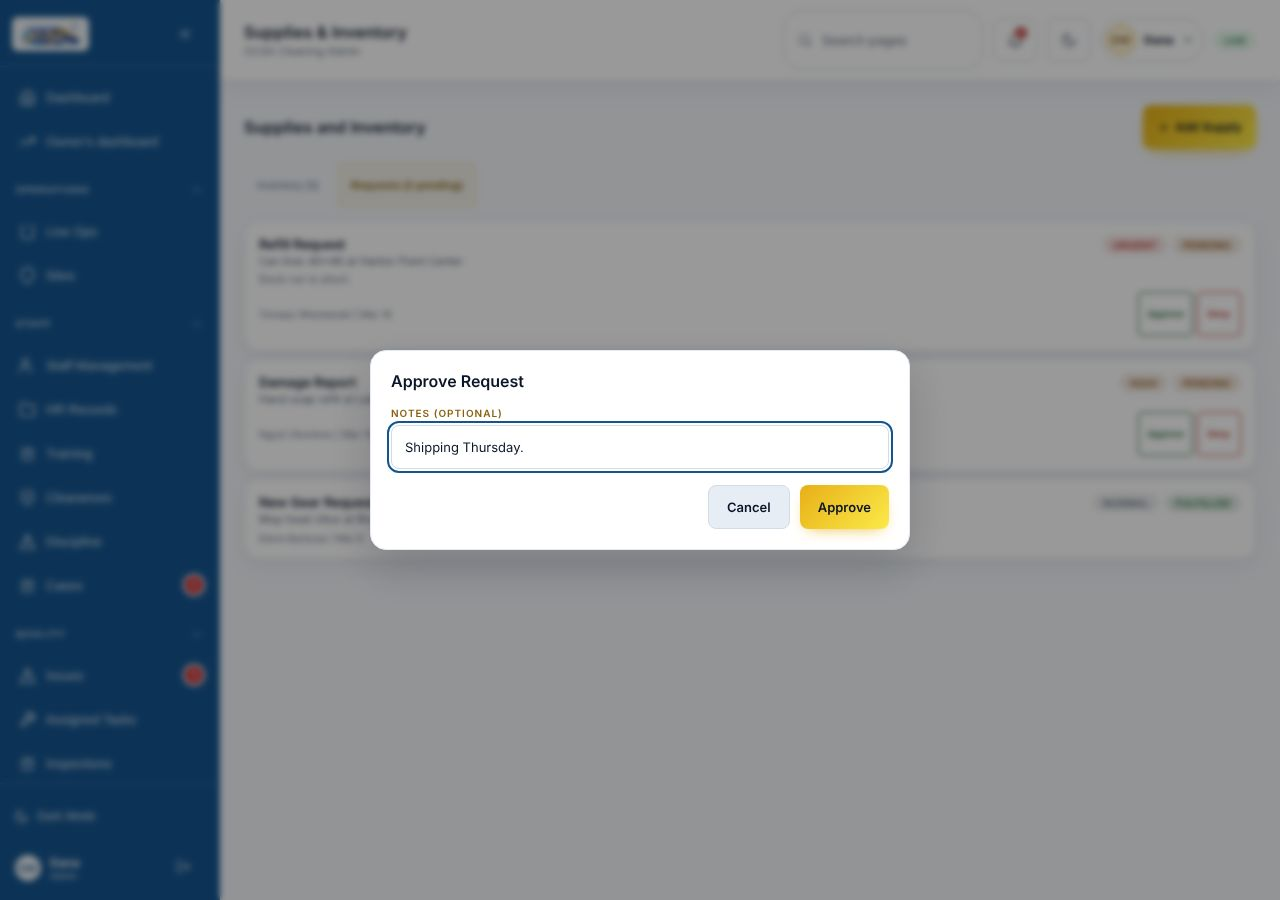
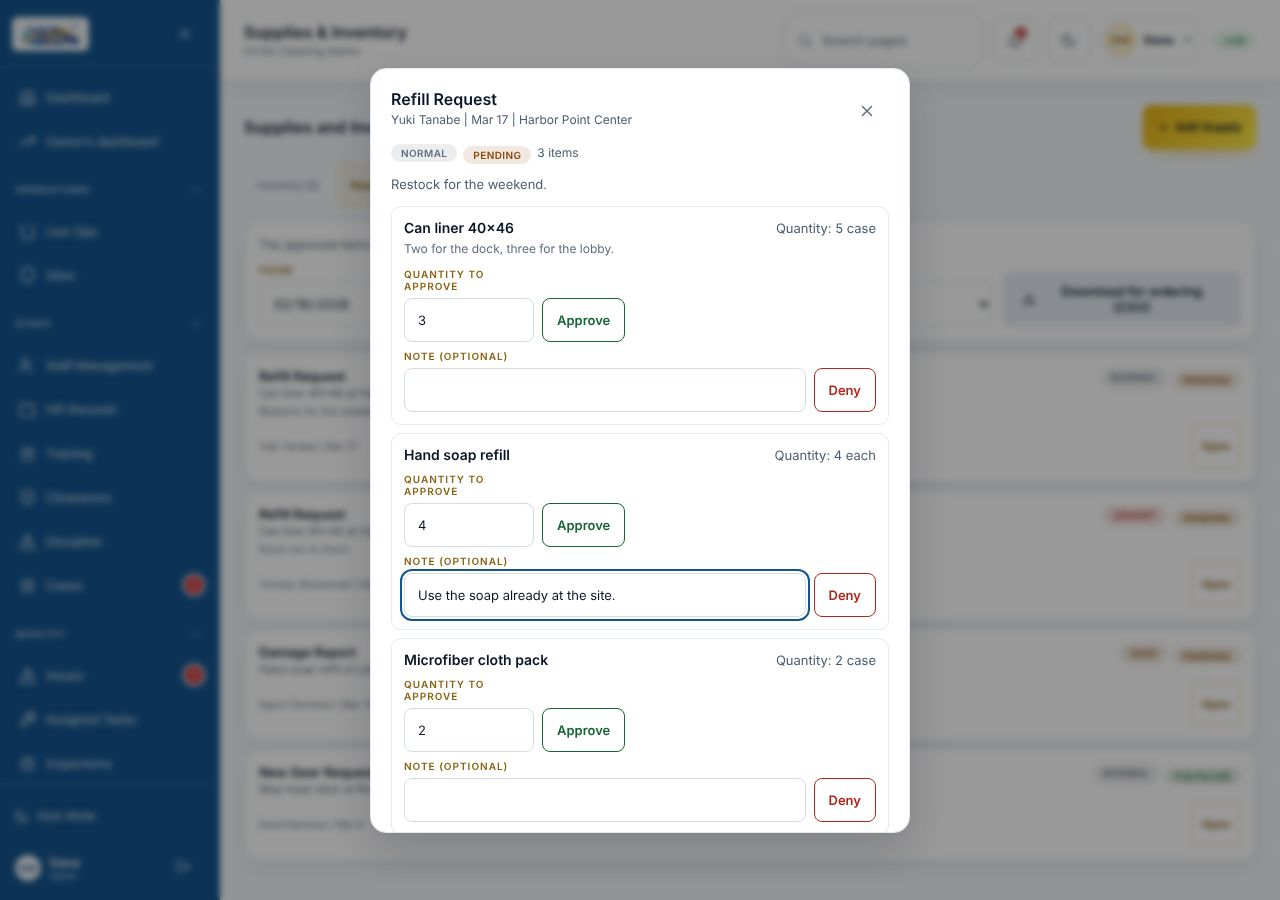
The Step 282 words, the guide, the stub and the smoke check
Every new word of the supply request window and the ordering download in English and Spanish, in
the table and the CSV: {0} items (supply request), Approved {0} of {1}, Denied (item), Quantity to
approve, A whole number from 1 to {0}, Note (optional), Approve all, Deny all, Download for ordering
(CSV), the line above it and the line under From and To when To is before From.

The guide's Approve or deny a supply request walks the window, Change, the request settling, the
download, and a request decided whole, with its bold names read from the CSV, Last checked
2026-10-06. Its picture is retaken on the three-item request and a second shows the list with the
download; npm run shots arms the API's Step 280 with the steps before it.

With setStep280 armed, the stub answers items on every request (the seeded requests as one line each
and a three-line refill listed first), POST /api/supplies/requests/:id/decide on some lines or all with
its refusals in the screen's language, the whole-request decision deciding every undecided line, and
the approved lines of the requests not yet fulfilled as approved.csv. Every value is invented.

The smoke check, at 1280 in English and in Spanish and at 390 in English, reads the item count and
first item in the list, approves the first item at 3 of 5, denies the second with a note and approves
the third by Approve all, holding each call to the items it decides, reads the request approved in its
[…]

diff --git a/audit/smoke.js b/audit/smoke.js
@@ -76,6 +76,11 @@
 //     Spanish, once Help has answered: a how-to answer draws its picture under it from the screen's
 //     language's file, described by its entry's title, opens it full screen and closes it; an answer to
 //     anything else draws none; and, in English, a portal picture is read from the portal's address.
+//   - against the stub's answers for the API's Step 280 (Step 282), at 1280 in English and in Spanish
+//     and at 390 in English: the Requests tab says how many items a request holds and names the
+//     first; a three-item request has one item approved at 3 of 5, one denied with a note and the
+//     third approved by Approve all, each sent as the items it decides, and then reads approved in
+//     its window and in the list; and Download for ordering saves the two approved items as a CSV.
 // One line a check. Any failure exits non-zero, and so does a run of three minutes or more. The full
 // npm run audit is untouched by this.
 // Since Step 273 the passes run two at a time, each in a browser context and a stub of its own, and
@@ -148,9 +153,9 @@ const LAST_WEEK = (() => {
   return { from: day(mon), to: day(new Date(mon.getTime() + 6 * 86400000)) };
 })();
 const PASSES = [
-  { name: "1280 en admin", viewport: "wide", lang: "en", who: "admin", step248: true, step250: true, requestChecks: true, step253: true, step256: "all", step262: "all", step266: "all", step270: "all", step269: "all", step275: "all", step278: true },
-  { name: "1280 es admin", viewport: "wide", lang: "es", who: "admin", secondStep: true, step248: true, step250: true, step256: "all", step262: "all", step266: "all", step270: "all", step269: "all", step275: "all", step278: true },
-  { name: "390 en admin", viewport: "phone", lang: "en", who: "admin", step256: "phone", step262: "phone", step266: "phone", step270: "phone", step269: "phone", step275: "phone" },
+  { name: "1280 en admin", viewport: "wide", lang: "en", who: "admin", step248: true, step250: true, requestChecks: true, step253: true, step256: "all", step262: "all", step266: "all", step270: "all", step269: "all", step275: "all", step278: true, step280: true },
+  { name: "1280 es admin", viewport: "wide", lang: "es", who: "admin", secondStep: true, step248: true, step250: true, step256: "all", step262: "all", step266: "all", step270: "all", step269: "all", step275: "all", step278: true, step280: true },
+  { name: "390 en admin", viewport: "phone", lang: "en", who: "admin", step256: "phone", step262: "phone", step266: "phone", step270: "phone", step269: "phone", step275: "phone", step280: true },
   { name: "1280 en supervisor", viewport: "wide", lang: "en", who: "supervisor", step256: "supervisor", step269: "supervisor" },
   // Step 273: the phone in Spanish, for the key sent to a phone and the Step 269 screens.
   { name: "390 es admin", viewport: "phone", lang: "es", who: "admin", step270: "phone", step269: "phone", step275: "phone" },
@@ -1143,6 +1148,81 @@ async function step269(d, origin, p, stubs) {
   });
 }
 
+// Step 282's supply requests with many items, against the stub armed with setStep280 (audit/stubs.js):
+// the stub lists a three-line refill first, the list says how many items it holds and names the
+// first, one line is approved at 3 of 5, one denied with a note and the third by Approve all, each
+// sent as the lines it decides, and the request then reads approved in the window and the list.
+// Download for ordering then saves the approved lines for the dates and the site chosen.
+const REQUEST_280 = { id: "sr-4", first: "Can liner 40x46" };
+const DENY_NOTE_280 = { en: "Use the soap already at the site.", es: "Use el jab\u00f3n que ya est\u00e1 en el sitio." };
+async function step280(d, origin, p, stubs) {
+  const check = async (what, fn) => {
+    const mark = d.pageErrors.length;
+    let why = "";
+    try { why = (await fn()) || (await trouble(d, mark)); } catch (e) { why = e.message.split("\n")[0]; }
+    say(!why, p.name, what, why);
+    await recover(d, origin, p);
+  };
+  const decided = () => stubs.calls.filter((c) => c.path === "/api/supplies/requests/" + REQUEST_280.id + "/decide" && c.method === "POST");
+  const sent = (call) => JSON.stringify(call ? call.body && call.body.items : null);
+  const fill = (key, ...v) => v.reduce((t0, x, i) => t0.split("{" + i + "}").join(String(x)), d.say(key));
+  const line = (n) => d.page.locator('[data-request-line="' + REQUEST_280.id + "-" + n + '"]');
+  const lineIs = (n, decision) => until(d, '[data-request-line="' + REQUEST_280.id + "-" + n + '"][data-request-line-decision="' + decision + '"]');
+  const requestsTab = async (ready) => {
+    await go(d, "supplies", null, '[data-supplies-tab="requests"]');
+    await d.page.locator('[data-supplies-tab="requests"]').click();
+    await until(d, ready);
+  };
+  const saved = async (name) => { await d.page.waitForFunction((x) => window.__audit.downloads.some((y) => y.name === x), name); return true; };
+  await check("a three-item request is decided a line at a time and by Approve all, and reads approved", async () => {
+    await requestsTab('[data-request-open="' + REQUEST_280.id + '"]');
+    // The stub lists the three-line request first.
+    const count = await d.page.locator("[data-request-lines]").first().getAttribute("data-request-lines");
+    const first = (await d.page.locator("[data-request-first]").first().innerText()).trim();
+    if (count !== "3" || first !== REQUEST_280.first) return "the list reads " + count + " items, the first " + first;
+    await d.page.locator('[data-request-open="' + REQUEST_280.id + '"]').click();
+    await until(d, '[data-request-window="' + REQUEST_280.id + '"]');
+    if ((await d.page.locator("[data-request-window] [data-request-line]").count()) !== 3) return "the window does not hold three lines";
+    const before = decided().length;
+    await line(1).locator("[data-request-line-qty]").fill("3");
+    await line(1).locator("[data-request-line-approve]").click();
+    await lineIs(1, "approved");
+    if (sent(decided()[before]) !== JSON.stringify([{ id: REQUEST_280.id + "-1", decision: "approved", approvedQuantity: 3 }])) return "the first line was sent as " + sent(decided()[before]);
+    const said = (await line(1).locator("[data-request-line-said]").innerText()).trim();
+    if (said.indexOf(fill("Approved {0} of {1}", 3, 5)) < 0) return "the first line reads " + said;
+    await line(2).locator("[data-request-line-note]").fill(DENY_NOTE_280[p.lang]);
+    await line(2).locator("[data-request-line-deny]").click();
+    await lineIs(2, "denied");
+    if (sent(decided()[before + 1]) !== JSON.stringify([{ id: REQUEST_280.id + "-2", decision: "denied", note: DENY_NOTE_280[p.lang] }])) return "the second line was sent as " + sent(decided()[before + 1]);
+    if ((await line(2).locator("[data-request-line-said-note]").innerText()).indexOf(DENY_NOTE_280[p.lang]) < 0) return "the denied line does not read its note";
+    if ((await d.page.locator('[data-request-window] [data-request-status="pending"]').count()) !== 1) return "the request is not pending with a line still undecided";
+    await d.page.locator("[data-request-approve-all]").click();
+    await until(d, '[data-request-window] [data-request-status="approved"]');
+    if (sent(decided()[before + 2]) !== JSON.stringify([{ id: REQUEST_280.id + "-3", decision: "approved", approvedQuantity: 2 }])) return "Approve all was sent as " + sent(decided()[before + 2]);
+    if ((await line(3).getAttribute("data-request-line-decision")) !== "approved") return "the third line is not approved";
+    if ((await d.page.locator("[data-request-approve-all], [data-request-deny-all]").count()) !== 0) return "Approve all and Deny all are offered with every line decided";
+    await d.page.locator('[data-request-window="' + REQUEST_280.id + '"] button[aria-label="' + d.say("Close") + '"]').click();
+    await d.page.locator("[data-request-window]").waitFor({ state: "detached" });
+    const state = await d.page.locator("[data-request-state]").first().getAttribute("data-request-state");
+    return state === "approved" ? "" : "the list reads " + state;
+  });
+  await check("Download for ordering saves the approved items as a CSV", async () => {
+    await requestsTab("[data-ordering-download]");
+    const from = await d.page.locator("[data-ordering-from]").inputValue();
+    const to = await d.page.locator("[data-ordering-to]").inputValue();
+    const name = "supplies-for-ordering-" + from + "-to-" + to + ".csv";
+    await d.page.locator("[data-ordering-download]").click();
+    await saved(name);
+    const call = stubs.calls.filter((c) => c.path === "/api/supplies/requests/approved.csv").pop();
+    if (!call || call.status !== 200 || call.query.indexOf("from=" + from) < 0 || call.query.indexOf("to=" + to) < 0) return "the CSV was not asked for with the dates shown";
+    const file = (await d.downloads()).filter((x) => x.name === name).pop();
+    const rows = String(file ? file.body : "").replace(/^\ufeff/, "").trim().split(/\r?\n/);
+    // The header and the two lines approved above, at 3 and at 2.
+    if (rows.length !== 3 || rows[1].indexOf("Can liner 40x46") < 0 || rows[1].indexOf(",3,") < 0 || rows[2].indexOf("Microfiber cloth pack") < 0 || rows[2].indexOf(",2,") < 0) return "the CSV holds " + JSON.stringify(rows);
+    return "";
+  });
+}
+
 // Step 273's First due after and keys heads-up, each a line, against the stub armed with setStep275
 // (audit/stubs.js) over Step 269's. Every line waits for what it reads.
 async function step275(d, origin, p, stubs) {
@@ -1288,6 +1368,8 @@ async function runPass(browser, origin, p) {
   if (p.step269) stubs.setStep269(true);
   // Step 275's answers are laid over Step 269's.
   if (p.step275) stubs.setStep275(true);
+  // Step 280's answers are laid over whichever of those the pass arms.
+  if (p.step280) stubs.setStep280(true);
   if (p.secondStep) armSecondStep(stubs);
   const d = await createDriver({ browser, origin, stubs, viewport: p.viewport, lang: p.lang });
   // A control that is not there fails its line in seconds, not in the driver's thirty.
@@ -1373,6 +1455,7 @@ async function runPass(browser, origin, p) {
     if (p.step270) await step270(d, origin, p, stubs);
     if (p.step269) await step269(d, origin, p, stubs);
     if (p.step275) await step275(d, origin, p, stubs);
+    if (p.step280) await step280(d, origin, p, stubs);
 
     // Help, asked one question.
     {

diff --git a/audit/stubs.js b/audit/stubs.js
@@ -4248,6 +4248,96 @@ function createStubs() {
     }
     return a;
   }
+  // Supply requests with many items (STEP280_CONTRACT.md section 1), answered only once a run arms it
+  // with setStep280: items on every request answer, the seeded requests as one line each and a
+  // three-line refill waiting at the first site, POST /api/supplies/requests/:id/decide on some lines
+  // or all, the whole-request decision deciding every undecided line, and the approved lines of the
+  // requests not yet fulfilled as GET /api/supplies/requests/approved.csv. The refusal codes are the
+  // stub's own; the contract names only the bad-details code's keys for a new request. Every value is
+  // invented.
+  let step280 = false;
+  const REQUEST_280 = "sr-4";
+  const line280 = (rq, i, x) => ({ id: rq + "-" + (i + 1), supplyId: x.supplyId || null, name: x.name, unit: x.unit || null, quantity: x.quantity, note: x.note || null,
+    decision: x.decision || null, approvedQuantity: x.decision === "approved" ? (x.approvedQuantity || x.quantity) : null, decisionNote: x.decisionNote || null,
+    decidedAt: x.decision ? x.decidedAt : null, decidedBy: x.decision ? { name: x.decidedBy } : null });
+  const requests280 = () => {
+    if (!state.supplyRequests) state.supplyRequests = clone(SUPPLY_REQUESTS);
+    if (state.r280) return state.supplyRequests;
+    state.r280 = true;
+    const siteOf = [S[0].id, S[1].id, S[2].id];
+    state.supplyRequests.forEach((rq, i) => {
+      rq.site_id = siteOf[i % 3];
+      rq.items = [line280(rq.id, 0, { supplyId: rq.supply_id, name: rq.supply_name, unit: rq.unit, quantity: rq.request_type === "damage_report" ? 1 : rq.quantity, note: rq.description || null,
+        decision: rq.status === "fulfilled" ? "approved" : null, decidedAt: rq.status === "fulfilled" ? seed.shift(-10) + "T14:00:00Z" : null, decidedBy: "Marcus Ferreira" })];
+    });
+    state.supplyRequests.unshift({ id: REQUEST_280, supply_name: "Can liner 40x46", supply_id: "sp-3", item_name: null, quantity: 5, unit: "case", status: "pending", requested_by_name: "Yuki Tanabe",
+      site_name: S[0].name, site_id: S[0].id, notes: "", requested_at: seed.shift(0) + "T22:15:00Z", admin_notes: null, request_type: "refill", urgency: "normal",
+      created_at: seed.shift(0) + "T22:15:00Z", description: "Restock for the weekend.",
+      items: [
+        line280(REQUEST_280, 0, { supplyId: "sp-3", name: "Can liner 40x46", unit: "case", quantity: 5, note: "Two for the dock, three for the lobby." }),
+        line280(REQUEST_280, 1, { supplyId: "sp-4", name: "Hand soap refill", unit: "each", quantity: 4 }),
+        line280(REQUEST_280, 2, { supplyId: "sp-2", name: "Microfiber cloth pack", unit: "case", quantity: 2 }),
+      ] });
+    return state.supplyRequests;
+  };
+  // Once every line is decided the request is approved when any line is, and denied when none is.
+  const settle280 = (rq) => {
+    if (!rq.items.every((x) => x.decision)) return;
+    rq.status = rq.items.some((x) => x.decision === "approved") ? "approved" : "denied";
+    rq.handled_at = seed.NOW_ISO;
+  };
+  function step280Route(method, path, query, body, lang, base) {
+    const es = lang === "es";
+    const b = body || {};
+    const rows = requests280();
+    const bad = (key) => ({ status: 400, json: { error: es ? "Revise los artículos del pedido." : "Check the request's items.", code: "supplies.badDetails", keys: [key] } });
+    const decide = /^\/api\/supplies\/requests\/([^/]+)\/decide$/.exec(path);
+    if (decide && method === "POST") {
+      const rq = rows.find((x) => String(x.id) === decodeURIComponent(decide[1]));
+      if (!rq) return { status: 404, json: { error: es ? "No se encontró ese pedido." : "That request was not found.", code: "supplies.notFound" } };
+      if (rq.status === "fulfilled") return { status: 409, json: { error: es ? "Este pedido ya se entregó, así que sus artículos no cambian." : "This request is already fulfilled, so its items cannot change.", code: "supplies.wrongState" } };
+      const list = b.items;
+      if (!Array.isArray(list) || !list.length || list.length > 30) return bad("items");
+      const plan = [];
+      for (let n = 0; n < list.length; n += 1) {
+        const x = list[n] || {};
+        const line = rq.items.find((it) => it.id === x.id);
+        if (!line) return bad("items." + n + ".id");
+        if (x.decision !== "approved" && x.decision !== "denied") return bad("items." + n + ".decision");
+        const qty = x.decision === "approved" ? (x.approvedQuantity == null ? line.quantity : x.approvedQuantity) : null;
+        if (x.decision === "approved" && !(Number.isInteger(qty) && qty >= 1 && qty <= line.quantity)) return bad("items." + n + ".approvedQuantity");
+        if (x.note != null && (typeof x.note !== "string" || x.note.length > 500)) return bad("items." + n + ".note");
+        plan.push({ line, decision: x.decision, qty, note: x.note ? String(x.note).trim() || null : null });
+      }
+      const me = person();
+      const by = { name: [me.firstName || me.first_name, me.lastName || me.last_name].filter(Boolean).join(" ") };
+      plan.forEach((x) => Object.assign(x.line, { decision: x.decision, approvedQuantity: x.qty, decisionNote: x.note, decidedAt: seed.NOW_ISO, decidedBy: by }));
+      settle280(rq);
+      return ok({ request: rq });
+    }
+    if (path === "/api/supplies/requests/approved.csv" && method === "GET") {
+      const from = query.get("from") || "";
+      const to = query.get("to") || "";
+      const siteId = query.get("siteId") || "";
+      const day = (v) => /^\d{4}-\d{2}-\d{2}$/.test(v);
+      if (!day(from) || !day(to) || from > to) return { status: 400, json: { error: es ? "Elija Desde y Hasta, con Hasta el mismo día o después." : "Choose a From and a To, with To on or after From.", code: "supplies.badDetails", keys: [!day(from) ? "from" : "to"] } };
+      const out = [["Request date", "Site", "Requested by", "Item", "Unit", "Quantity approved", "Note", "Preferred vendor"]];
+      rows.filter((rq) => rq.status !== "fulfilled" && String(rq.created_at).slice(0, 10) >= from && String(rq.created_at).slice(0, 10) <= to && (!siteId || String(rq.site_id) === siteId))
+        .forEach((rq) => rq.items.filter((x) => x.decision === "approved").forEach((x) => out.push([String(rq.created_at).slice(0, 10), rq.site_name || "", rq.requested_by_name || "", x.name, x.unit || "", String(x.approvedQuantity), x.note || "", ""])));
+      const q = (v) => (/[",\r\n]/.test(v) ? '"' + v.replace(/"/g, '""') + '"' : v);
+      return { status: 200, json: null, bytes: Buffer.from("" + out.map((r) => r.map(q).join(",")).join("\r\n") + "\r\n", "utf8"), contentType: "text/csv; charset=utf-8", headers: { "Content-Disposition": 'attachment; filename="approved-supplies-' + from + "-" + to + '.csv"' } };
+    }
+    // The whole-request decision keeps working: approving approves every undecided line at its full
+    // quantity, and denying denies every undecided line.
+    const one = /^\/api\/supplies\/requests\/([^/]+)$/.exec(path);
+    if (one && (method === "PATCH" || method === "PUT") && (b.status === "approved" || b.status === "denied")) {
+      const rq = rows.find((x) => String(x.id) === decodeURIComponent(one[1]));
+      const me = person();
+      const by = { name: [me.firstName || me.first_name, me.lastName || me.last_name].filter(Boolean).join(" ") };
+      if (rq && rq.status !== "fulfilled") rq.items.forEach((x) => { if (!x.decision) Object.assign(x, { decision: b.status, approvedQuantity: b.status === "approved" ? x.quantity : null, decidedAt: seed.NOW_ISO, decidedBy: by }); });
+    }
+    return base();
+  }
   // The routes above, ahead of every other; base is the answer the stub gave before Step 247.
   function step247Route(method, path, query, body, lang, base) {
     const es = lang === "es";
@@ -5936,7 +6026,8 @@ function createStubs() {
     const over270 = () => (step270 ? step270Route(method, path, u.searchParams, body, record.language, over266) : over266());
     const over269 = () => (step269 ? step269Route(method, path, u.searchParams, body, record.language, over270) : over270());
     const over275 = () => (step275 ? step275Route(method, path, u.searchParams, body, record.language, over269) : over269());
-    const answer = step278 ? step278Route(method, path, u.searchParams, body, record.language, over275) : over275();
+    const over280 = () => (step280 ? step280Route(method, path, u.searchParams, body, record.language, over275) : over275());
+    const answer = step278 ? step278Route(method, path, u.searchParams, body, record.language, over280) : over280();
     if (answer) {
       // The status the call was answered with, refusals the routes make on their own included.
       record.status = answer.status;
@@ -6013,6 +6104,9 @@ function createStubs() {
     setStep275: (v) => { step275 = v !== false; if (step275) step256 = true; },
     // What the pictures of the screen need (Step 278), on or off, laid over whichever steps the run arms.
     setStep278: (v) => { step278 = v !== false; },
+    // The routes and keys of the API's Step 280, supply requests with many items, on or off, laid over
+    // whichever steps the run arms.
+    setStep280: (v) => { step280 = v !== false; },
     reset: () => {
       calls.length = 0;
       refusals = [];
@@ -6069,6 +6163,7 @@ function createStubs() {
       step269 = false;
       step275 = false; state.t275 = false;
       step278 = false;
+      step280 = false; state.r280 = false;
     },
     fixtures: {
       LOOKUPS, SUPPLIES, SUPPLY_REQUESTS, VENDORS, SERVICES, PICKUPS, PICKUP_ANALYTICS,

diff --git a/audit/shots.js b/audit/shots.js
@@ -506,13 +506,19 @@ const SHOTS = [
   { name: "pickup-claimed", entry: "Approve a shift someone claimed",
     open: "marketplace", ready: SHELL,
     act: async (c) => { await wait(600); await press(c, "Claimed|shift"); await until(c, "table tbody tr"); } },
+  // Step 282: the three-item request the stub lists first, its first item at 3 of 5 and a note for a
+  // denial typed on the second, and the list with Download for ordering (CSV) over it.
   { name: "supplies-request-approve", entry: "Approve or deny a supply request",
     open: "supplies", ready: SHELL,
     act: async (c) => {
-      await wait(400); await press(c, "Requests"); await wait(300);
-      await press(c, "Approve"); await until(c, MODAL);
-      await inModal(c).locator("input").first().fill(c.lang === "es" ? "Se env\u00edan el jueves." : "Shipping Thursday.");
+      await wait(400); await click(c, '[data-supplies-tab="requests"]'); await until(c, '[data-request-open="sr-4"]');
+      await click(c, '[data-request-open="sr-4"]'); await until(c, '[data-request-window="sr-4"]');
+      await c.page.locator('[data-request-line="sr-4-1"] [data-request-line-qty]').fill("3");
+      await c.page.locator('[data-request-line="sr-4-2"] [data-request-line-note]').fill(c.lang === "es" ? "Use el jab\u00f3n que ya est\u00e1 en el sitio." : "Use the soap already at the site.");
     } },
+  { name: "supplies-request-list", entry: "Approve or deny a supply request",
+    open: "supplies", ready: SHELL,
+    act: async (c) => { await wait(400); await click(c, '[data-supplies-tab="requests"]'); await until(c, "[data-ordering-download]"); await until(c, '[data-request-open="sr-4"]'); } },
   { name: "supplies-add-supply", entry: "Add a supply to the inventory",
     open: "supplies", ready: SHELL,
     act: async (c) => {
@@ -1460,7 +1466,7 @@ function buildIsFresh() {
 function stubsFor(as) {
   const stubs = createStubs();
   stubs.setStep253(true);
-  ["setStep256", "setStep262", "setStep266", "setStep270", "setStep269", "setStep275", "setStep278"].forEach((k) => stubs[k](true));
+  ["setStep256", "setStep262", "setStep266", "setStep270", "setStep269", "setStep275", "setStep278", "setStep280"].forEach((k) => stubs[k](true));
   // The second step of sign-in, the way audit/smoke.js arms it: sign-in answers secondStep, and the
   // code is what finishes it (STEP225_CONTRACT.md).
   if (as === "code") {

diff --git a/src/words.js b/src/words.js
@@ -4664,6 +4664,20 @@ export const WORDS = {
   "None|first due": { es: "Ninguno" },
   "With a topic chosen, this one is first due its renewal months after the person first completes that topic, and nobody is asked for it before.": { es: "Con un tema elegido, este vence por primera vez sus meses de renovaci\u00f3n despu\u00e9s de que la persona completa ese tema por primera vez, y no se le pide a nadie antes." },
   "Keys and access is not done yet. OCSA-HR-013 Section 3 asks for it before any key, badge, fob or code is issued. If they already hold this one, record it; the training is assigned from the record.": { es: "Llaves y acceso todav\u00eda no est\u00e1 hecha. La secci\u00f3n 3 de OCSA-HR-013 la pide antes de entregar cualquier llave, credencial, llavero electr\u00f3nico o c\u00f3digo. Si la persona ya tiene esta, reg\u00edstrela; la capacitaci\u00f3n se asigna desde el registro." },
+  "{0} items|supply request": {
+    en: { one: "{0} item", other: "{0} items" },
+    es: { one: "{0} art\u00edculo", other: "{0} art\u00edculos" },
+  },
+  "Approved {0} of {1}": { es: "Aprobado: {0} de {1}" },
+  "Denied|item": { es: "Denegado" },
+  "Quantity to approve": { es: "Cantidad a aprobar" },
+  "A whole number from 1 to {0}": { es: "Un n\u00famero entero del 1 al {0}" },
+  "Note (optional)": { es: "Nota (opcional)" },
+  "Approve all": { es: "Aprobar todo" },
+  "Deny all": { es: "Denegar todo" },
+  "Download for ordering (CSV)": { es: "Descargar para hacer el pedido (CSV)" },
+  "The approved items of the requests not yet fulfilled, for the dates and the site chosen.": { es: "Los art\u00edculos aprobados de las solicitudes a\u00fan no entregadas, para las fechas y el sitio elegidos." },
+  "Choose a To date on or after the From date.": { es: "Elija una fecha Hasta igual o posterior a la fecha Desde." },
 };
 
 // The language the screen is being drawn in. The app sets it before anything renders and again on

diff --git a/guide/APP-DASHBOARD.md b/guide/APP-DASHBOARD.md
@@ -304,13 +304,21 @@ Last checked: 2026-10-01
 
 ## Approve or deny a supply request (admin dashboard)
 Who can do this: admins and supervisors
-1. Click **Inventory**.
-2. Click the **Requests** tab.
-3. Click **Approve** or **Deny** on the request, add a note if you want, and confirm.
-4. The person who asked gets a notice.
-Words people use for this: supply order, someone needs supplies, order request, approve supplies.
+1. Click **Inventory** (**Inventario**) in the side panel.
+2. Click the **Requests** (**Solicitudes**) tab. Each request names its first item and how many items it holds.
+3. Click **Open** (**Abrir**) on the request. The window lists every item with its quantity and any note from the person who asked.
+4. To approve an item, lower **Quantity to approve** (**Cantidad a aprobar**) if you are sending fewer, down to 1, and click **Approve** (**Aprobar**). The item then reads **Approved {0} of {1}** (**Aprobado: {0} de {1}**).
+5. To deny an item, type a **Note (optional)** (**Nota (opcional)**) if the person should know why, and click **Deny** (**Denegar**).
+6. **Approve all** (**Aprobar todo**) and **Deny all** (**Denegar todo**) decide every item not decided yet, at the quantities and with the notes in their boxes.
+7. Until the request is fulfilled, **Change** (**Cambiar**) on a decided item opens its boxes again.
+8. Once every item is decided, the request reads approved when any item was approved and denied when none was. The person who asked gets a notice saying how many items were approved and how many denied.
+9. To order what was approved, choose **From** (**Desde**), **To** (**Hasta**) and a **Site** (**Sitio**) or **All sites** (**Todos los sitios**) above the list, and click **Download for ordering (CSV)** (**Descargar para hacer el pedido (CSV)**). The file lists each approved item of the requests not yet fulfilled, with the quantity approved.
+10. A request that shows **Approve** (**Aprobar**) and **Deny** (**Denegar**) on the request itself, and no **Open** (**Abrir**), is decided whole: click one, add a note if you want, and confirm.
+If it does not work: when a decision or the download is refused, the reason shows in red in the window or under the download button.
+Words people use for this: supply order, someone needs supplies, order request, approve supplies, many items, several items, quantity, approve part of a request, approve fewer, order list, purchase list, csv for ordering.
 Picture: supplies-request-approve
-Last checked: 2026-09-17
+Picture: supplies-request-list
+Last checked: 2026-10-06
 
 ## Add a supply to the inventory (admin dashboard)
 Who can do this: admins

diff --git a/audit/README.md b/audit/README.md
@@ -88,6 +88,12 @@ Then it checks, one line a check:
   described by its entry's title, and the picture opens full screen and closes; an answer to anything
   else draws none; and at 1280 in English a portal picture is read from the portal's address, which the
   driver answers from `public/guide-shots`, so nothing leaves the machine.
+- against the stub's answers for the API's Step 280 contract (Step 282), which the smoke check arms with
+  `setStep280` over whichever steps a pass arms: at 1280 in English and in Spanish and at 390 in English,
+  the Requests tab says how many items a request holds and names the first; a three-item request has
+  one item approved at 3 of 5, one denied with a note and the third approved by Approve all, each sent
+  as the items it decides, and the request then reads approved in its window and in the list; and
+  Download for ordering saves the two approved items, read back from the CSV, under the dates shown.
 
 Since Step 257 a check opens a page by its hash and waits for the thing it reads to be drawn, rather
 than for the network to go quiet for half a second and then a fixed pause, and the phone's drawer is
@@ -132,7 +138,13 @@ and Step 268's by `data-training-views`, `data-training-view`, `data-catalog-cat
 `data-signature-kind`, `data-signature-site`, `data-signature-filter-state`, `data-warning-sent-phone`,
 `data-warning-signature`, `data-who-source`, `data-signature-request-window` and
 `data-signature-request-close`, and Step 278's by `data-help-answer`, `data-help-picture`,
-`data-help-picture-open` and `data-help-picture-close`.
+`data-help-picture-open` and `data-help-picture-close`, and Step 282's by `data-supplies-tab`,
+`data-request-lines`, `data-request-first`, `data-request-open`, `data-request-window`,
+`data-request-line`, `data-request-line-decision`, `data-request-line-qty`, `data-request-line-approve`,
+`data-request-line-note`, `data-request-line-deny`, `data-request-line-said`,
+`data-request-line-said-note`, `data-request-status`, `data-request-approve-all`,
+`data-request-deny-all`, `data-request-state`, `data-ordering-from`, `data-ordering-to` and
+`data-ordering-download`.
 
 ## Pictures of the screen
 
